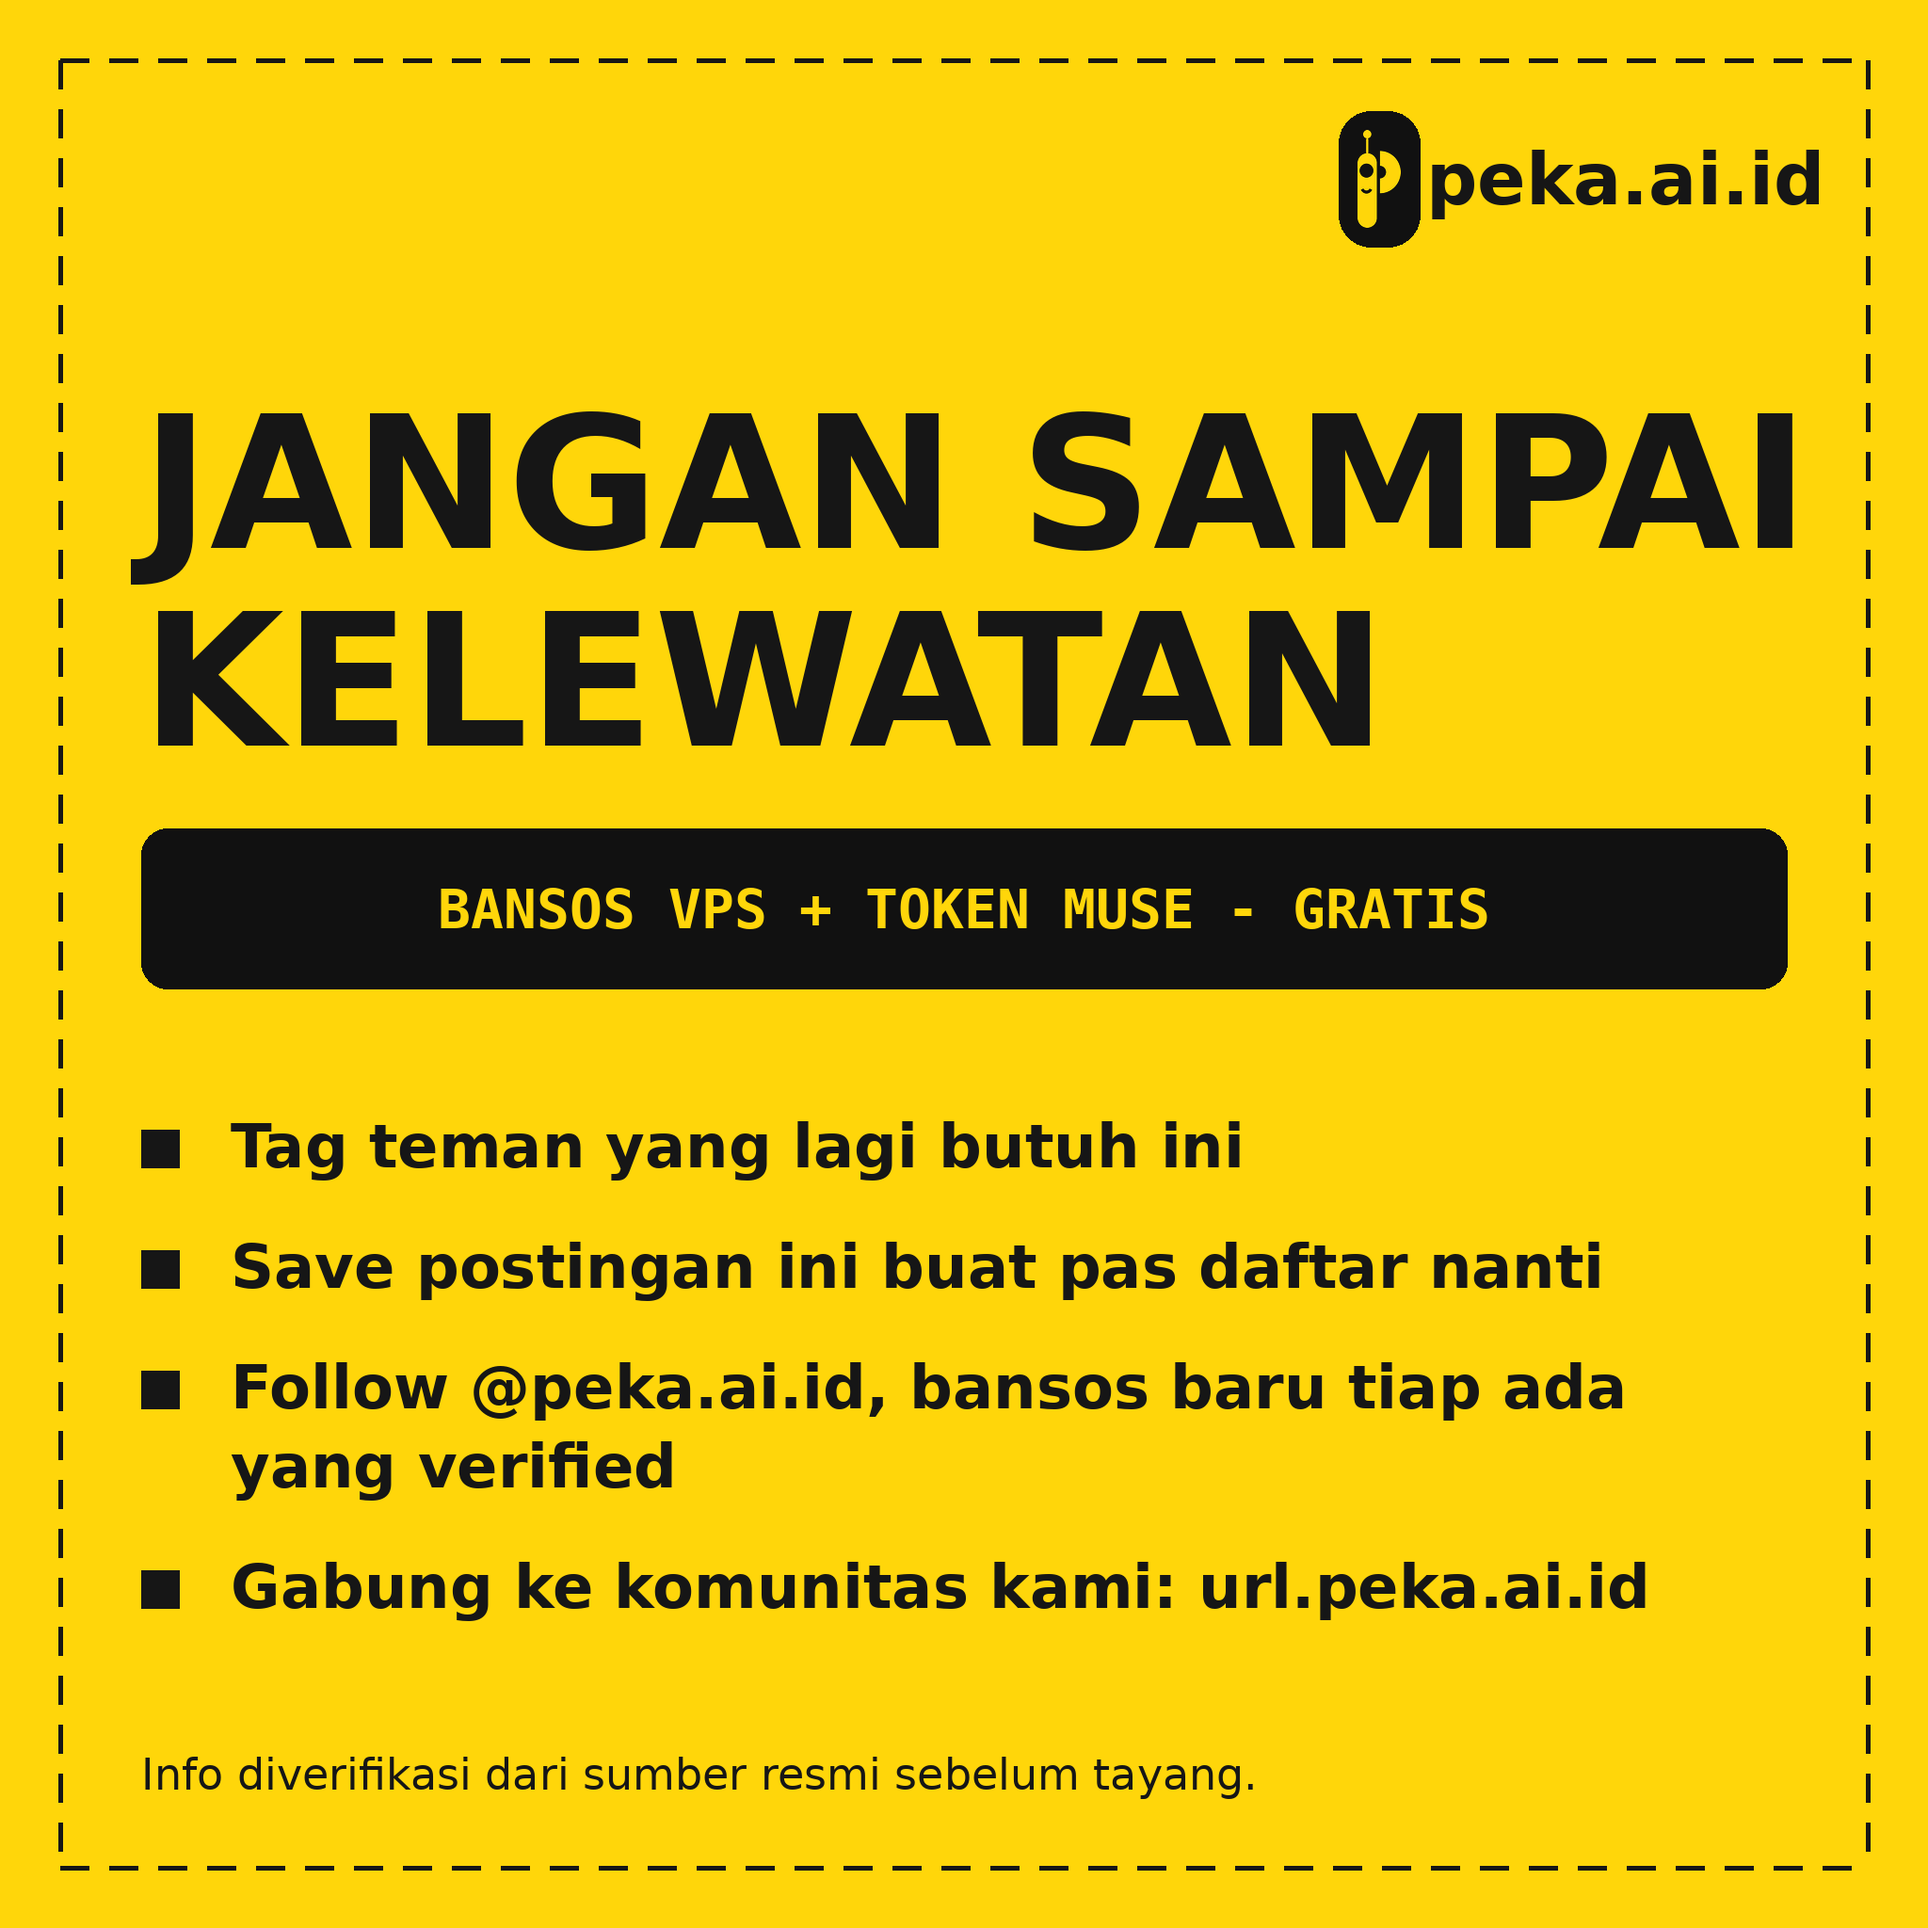
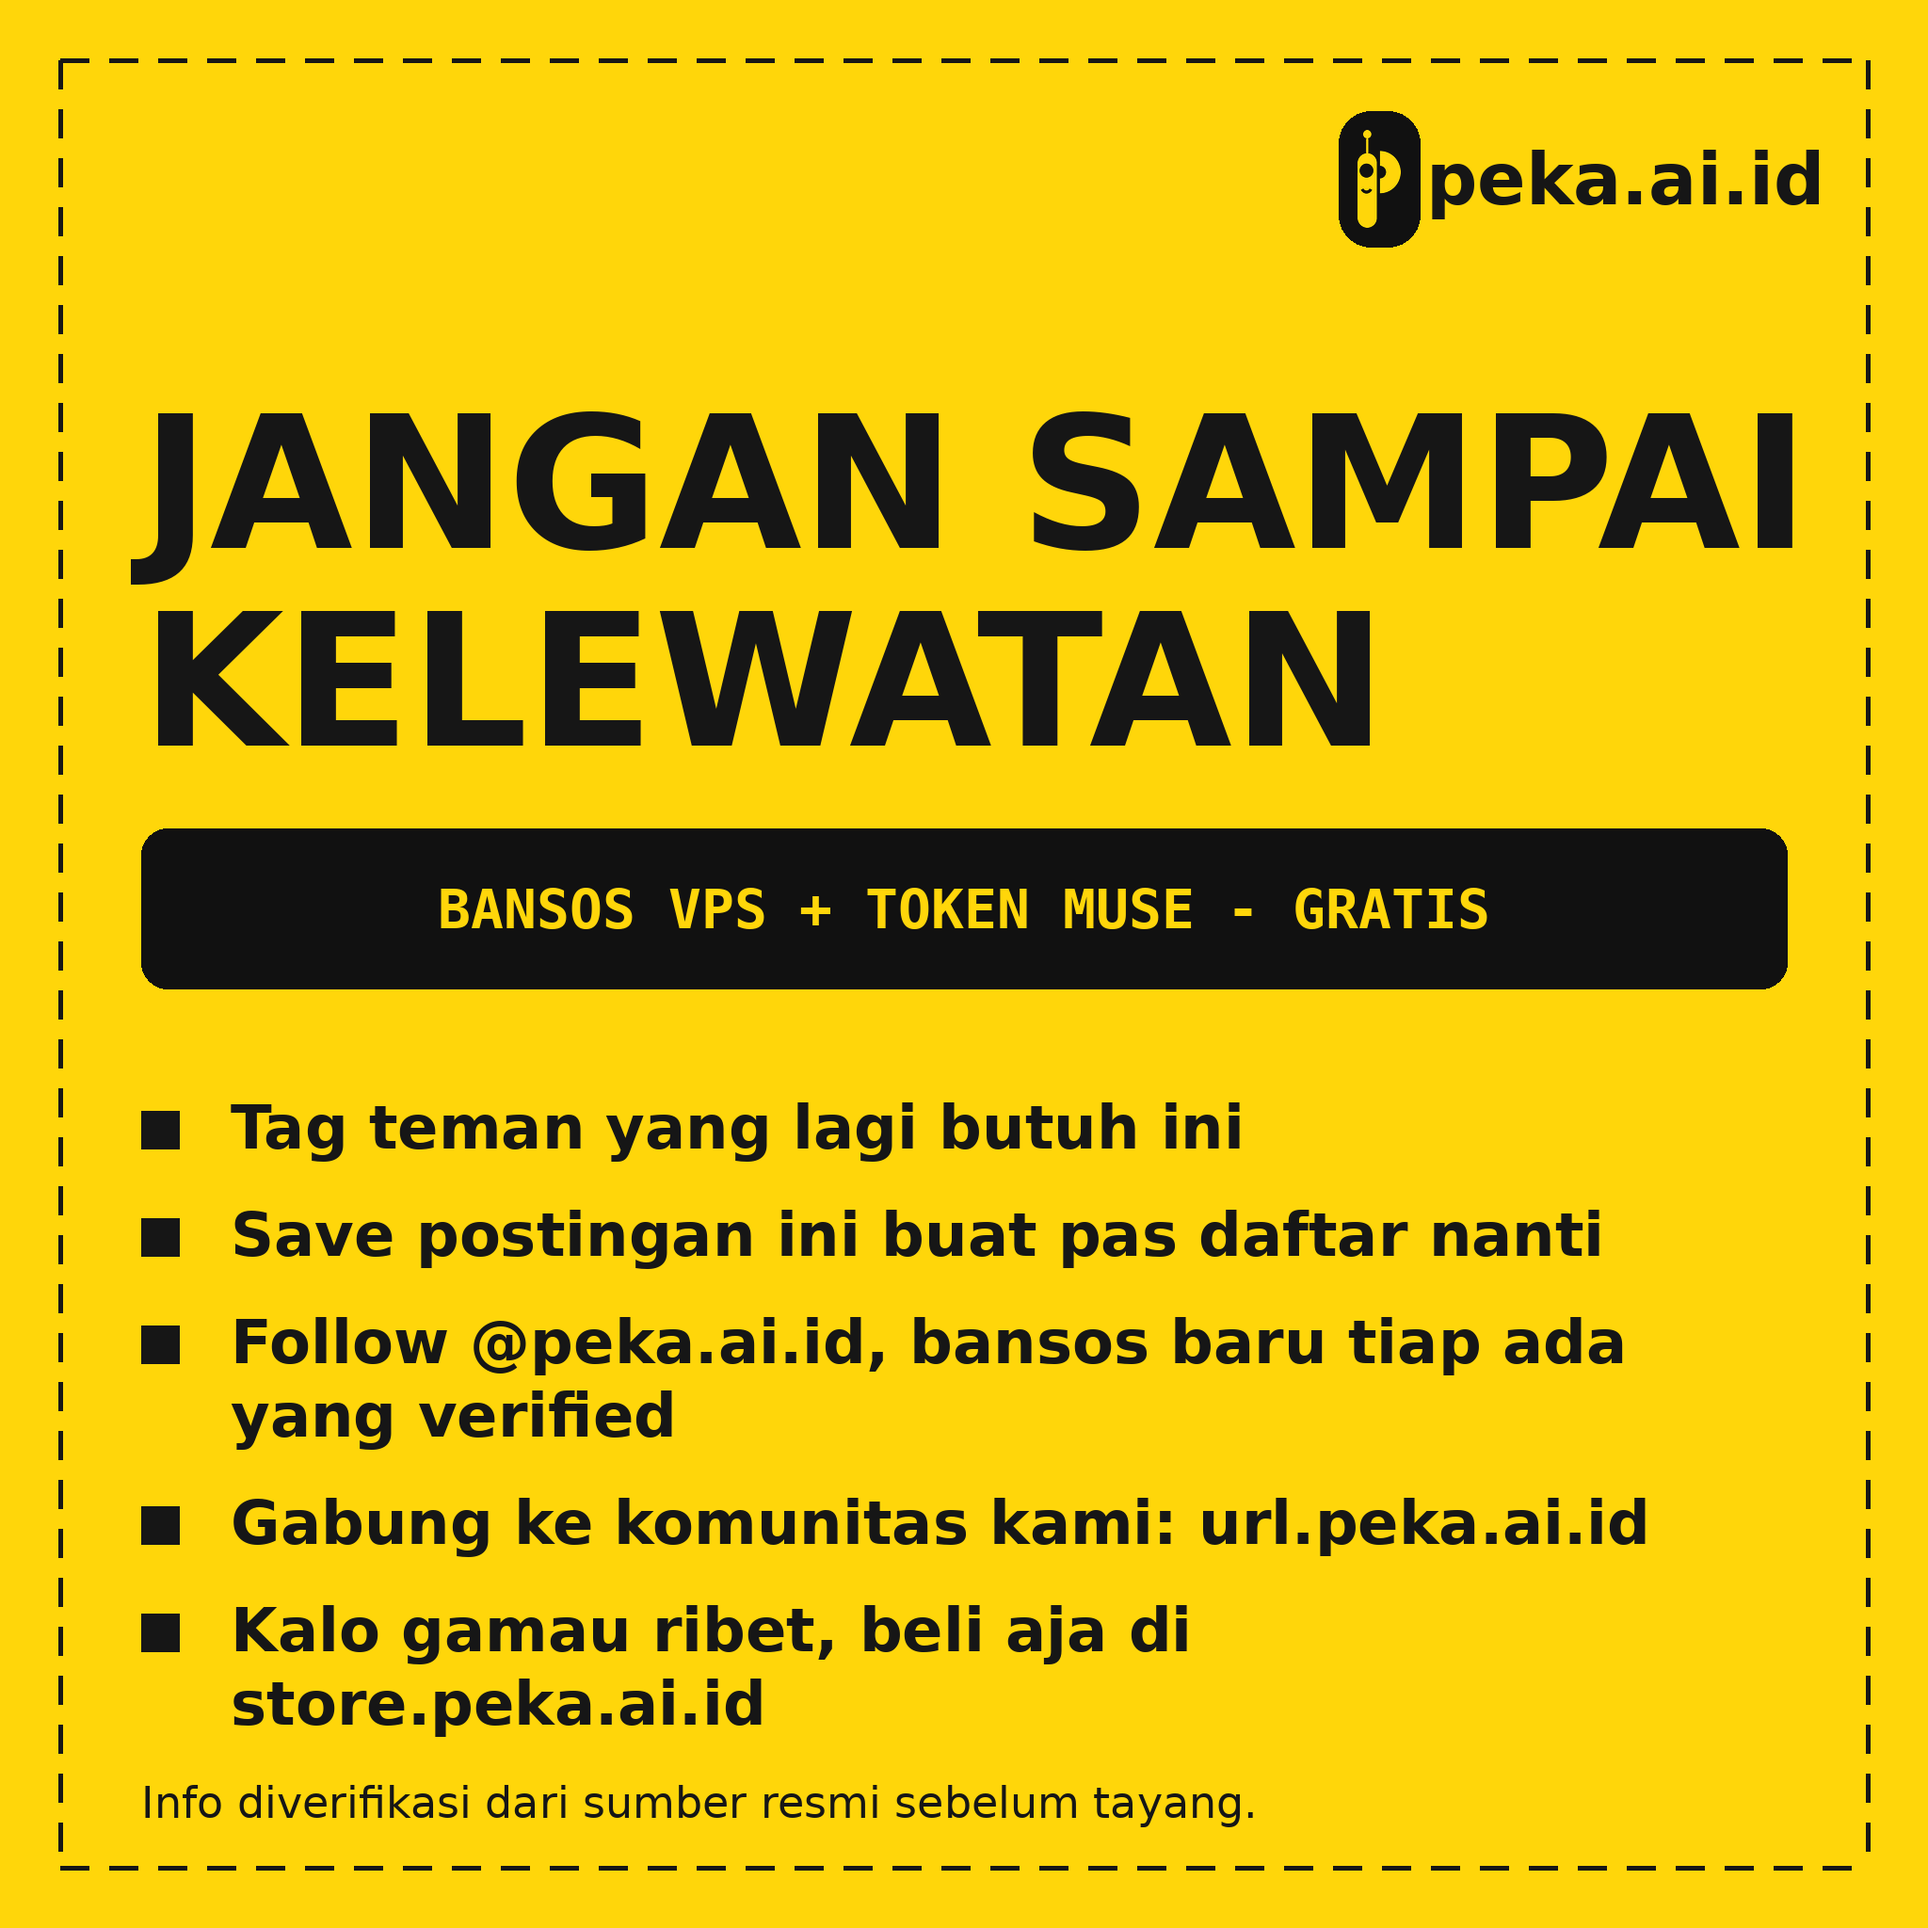
Auto sync 2026-10-25 19:22

Changed region(s): [[0.0625, 0.5625, 0.875, 0.9375], [0.0625, 0.5625, 0.0938, 0.75], [0.0625, 0.7812, 0.0938, 0.875]]

diff --git a/bansos/bansos_design.py b/bansos/bansos_design.py
@@ -401,15 +401,21 @@ def slide3(spec):
             "Save postingan ini buat pas daftar nanti",
             "Follow @peka.ai.id, bansos baru tiap ada yang verified",
             "Gabung ke komunitas kami: url.peka.ai.id"]
-    yy = 1180
+    if spec.get("store_cta"):
+        ctas.append(spec["store_cta"])
+    # Edisi dengan CTA tambahan pakai spasi lebih rapat supaya muat.
+    tight = len(ctas) > 4
+    line_h = 78 if tight else 84
+    gap = 36 if tight else 44
+    yy = 1160 if tight else 1180
     for c in ctas:
         cl = wrap(d, c, f(64), 1560)
         d.rectangle([150, yy + 20, 190, yy + 60], fill=INK)
         for ln in cl:
             d.text((245, yy), ln, font=f(64), fill=INK)
-            yy += 84
-        yy += 44
-    d.text((150, S - 190), "Info diverifikasi dari sumber resmi sebelum tayang.",
+            yy += line_h
+        yy += gap
+    d.text((150, S - 160 if tight else S - 190), "Info diverifikasi dari sumber resmi sebelum tayang.",
            font=fr(46), fill=INK)
     return img
 
